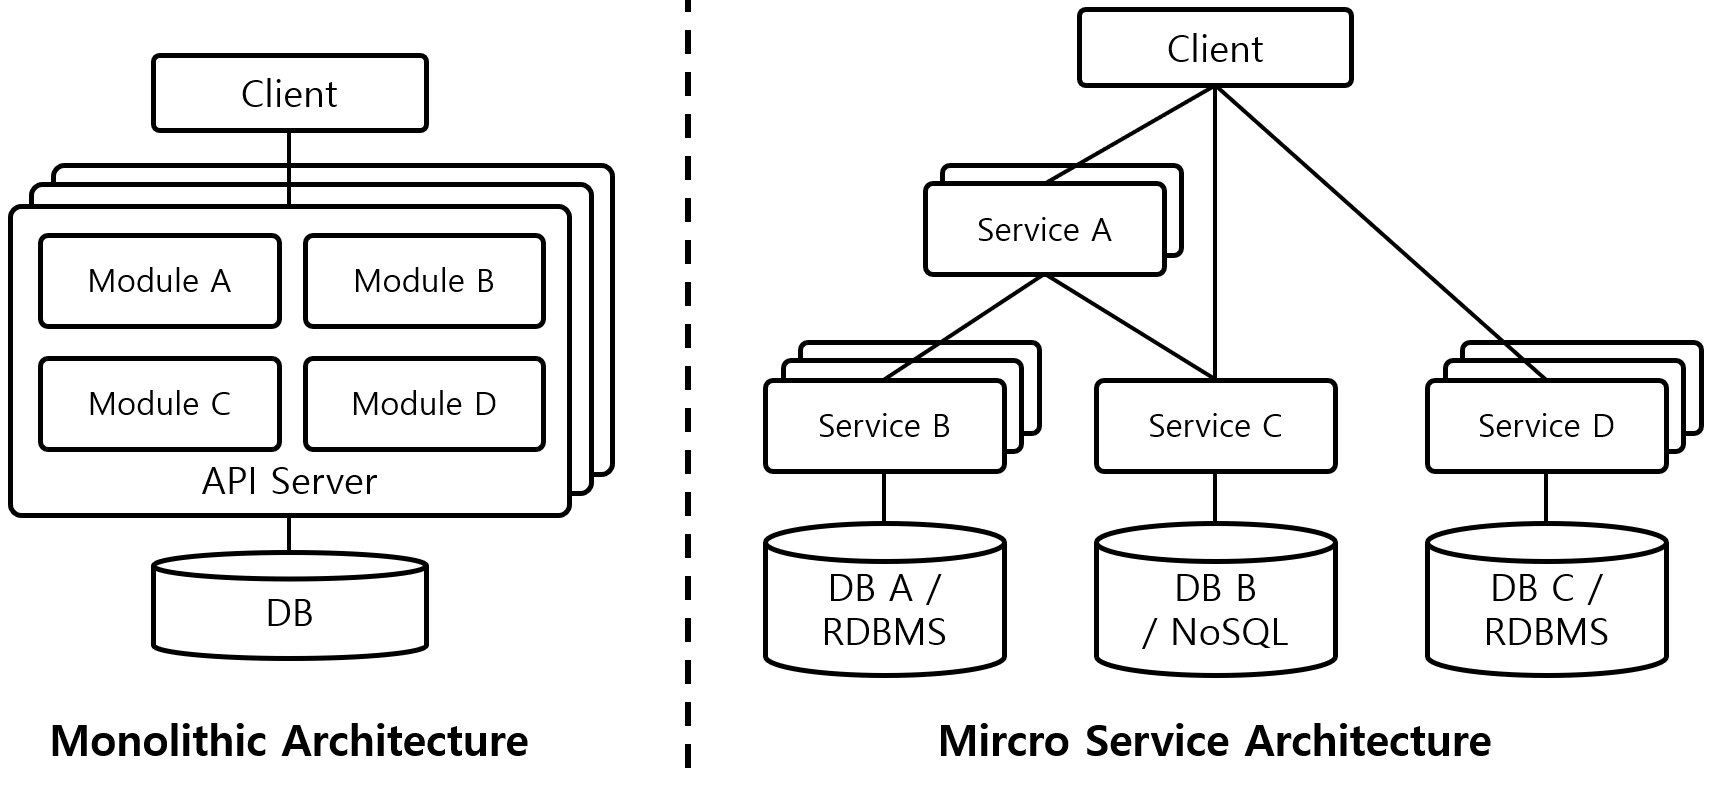
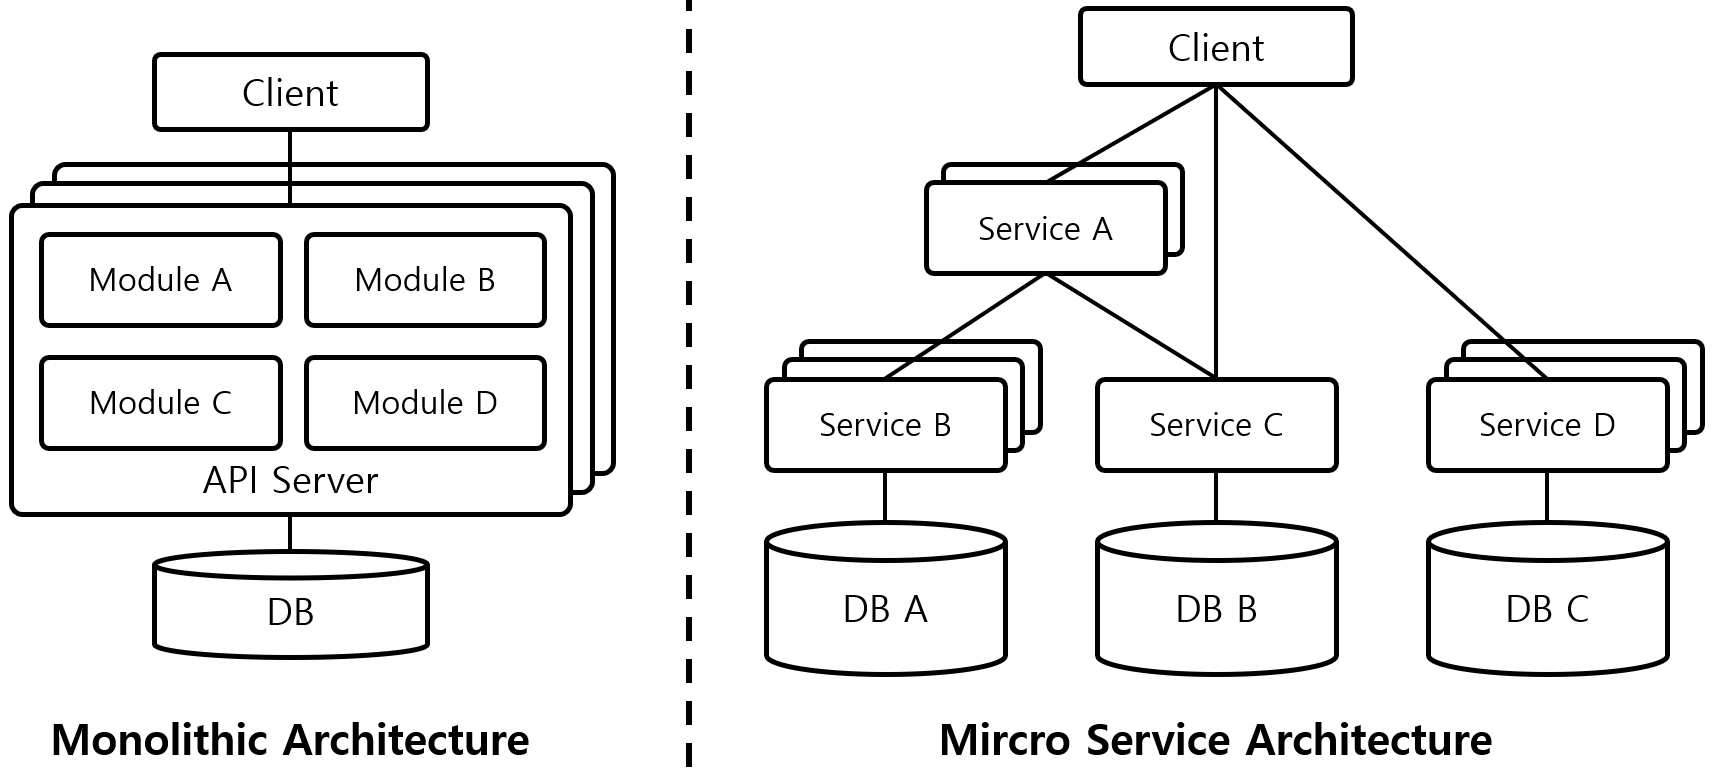
Update

diff --git a/_docs/theory_analysis/MSA.md b/_docs/theory_analysis/MSA.md
@@ -25,7 +25,7 @@ Monolithic Architecture에서는 운영 중 특정 Module만 부하가 몰려 Sc
 
 하지만 Monolithic Architecture는 단순한 구조로 인하여 빠른 개발과, 쉬운 배포가 가능하다는 특징을 갖고 있다. 또한 하나의 DB를 공유하기 때문에 DB Transaction 기능을 이용하여 Race Condition 방지, Service Rollback 등을 쉽게 처리 할 수 있는 장점을 가지고 있다. 따라서 큰 큐모의 개발이 아닌 경우에는 Monolithic Architecture가 일반적으로 유리하다.
 
-**MSA**는 Business Logic을 수행하는 다수의 Service와 다수의 DB로 구성된다. 각 Service는 일반적으로 별도의 DB를 이용한다. 따라서 각 DB는 반드시 동일한 DB를 이용할 필요가 없으며 Service가 수행하는 Business Logic에 맞는 DB를 선택하여 이용이 가능하다. 물론 필요에 따라서는 서로 다른 Service가 하나의 DB를 공유 할 수도 있다. [그림 1]에서 Service B와 Servicd D는 RDBMS를 이용하고 있고 Service C는 NoSQL을 이용하고 있는것을 확인 할 수 있다.
+**MSA**는 Business Logic을 수행하는 다수의 Service와 다수의 DB로 구성된다. 각 Service는 일반적으로 별도의 DB를 이용한다. 따라서 각 DB는 반드시 동일한 종류의 DB를 이용할 필요가 없으며 Service가 수행하는 Business Logic에 맞는 DB (RDBMS, NoSQL)를 선택하여 이용이 가능하다. 물론 필요에 따라서는 서로 다른 Service가 하나의 DB를 공유 할 수도 있다. Service를 구성하는 기술 Stack도 다양하게 선택하여 구성할 수 있다.
 
 Service는 필요에 따라서 다른 Service를 호출할 수 있다. Service 호출은 각 Service가 제공하는 Interface를 통해서 호출한다. 일반적으로는 Network 기반의 REST API, GRPC를 Service의 Interface로 많이 이용하고 있다. 이러한 Network 기반의 Service Interface는 Service 사이의 경계를 명확하게 만든다. [그림 1]에서 Service A는 Service B와 Service C를 조합을 통해서 제공되는 Service를 나타내고 있다.
 
